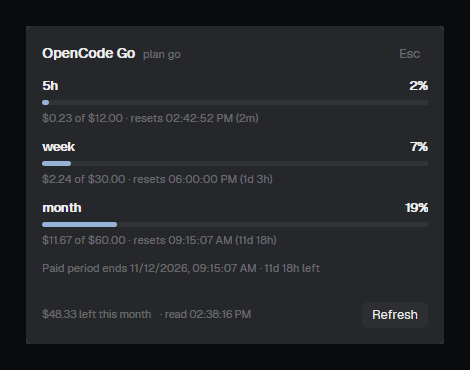
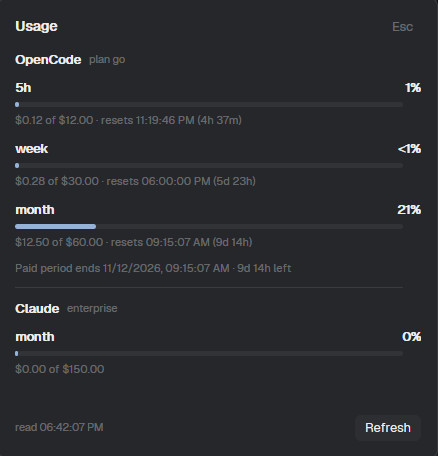
chore(release): 0.2.0
Claude joins the bar, the bar learns a compact 5h view, money is read in minor
units and the controls are visible. Adds CHANGELOG.md, refreshes both
screenshots from the new UI, and drops the account details from the ODD record.

diff --git a/CHANGELOG.md b/CHANGELOG.md
@@ -1,0 +1,68 @@
+# Changelog
+
+All notable changes to this mod are documented here. The format follows
+[Keep a Changelog](https://keepachangelog.com/en/1.1.0/) and the project uses
+[semantic versioning](https://semver.org/spec/v2.0.0.html).
+
+The two mod folders (`opencode-usage`, `opencode-usage-detail`) ship together and
+share one version.
+
+## [0.2.0] — 2026-11-03
+
+Claude joins the bar, and the bar learns to show less.
+
+### Added
+
+- **Claude as a second provider**, read from the Claude Code session on this
+  machine (`~/.claude/.credentials.json`) through the same usage endpoint the
+  `/usage` view uses. Percentages when the account has plan windows; dollars when
+  it bills by use.
+- **Compact and full views.** The bar opens compact (the five-hour window of each
+  provider) and a click on the numbers expands it to every window. The choice is
+  remembered across restarts.
+- **`opencode-usage.toggle`** command, the keyboard equivalent of that click.
+- **A money pool row** for usage-billed accounts: the monthly credit pool is read
+  in minor units (`amount_minor` + `exponent`) and drawn like a window, with
+  grouped thousands.
+- **Visible controls**: the detail and refresh buttons now sit to the left of the
+  numbers, have their own background and border, and carry tooltips.
+
+### Changed
+
+- The bar is no longer OpenCode-only: one shared snapshot feeds both providers, so
+  there is one read cycle and one dialog for both.
+- **Clicking the numbers now switches the view** instead of opening the dialog.
+  The dialog opens from the gauge button (or `opencode-usage.details`).
+- The detail dialog grew to 440×460 and shows one section per provider.
+- Money formatting: `$15,000.00` instead of `$15000.00`, with only the spent
+  amount in semibold.
+
+### Fixed
+
+- A usage-billed account reported its monthly limit in cents as if it were
+  dollars: `$150.00` showed as `$15,000.00`. The `spend` block now wins over
+  `extra_usage`, and both are scaled by the exponent the payload declares.
+- The detail and refresh buttons rendered as empty boxes with no error anywhere,
+  because the SVG path lost its `mods/` prefix in the rewrite.
+- A wide empty band between the buttons and the numbers, left by a spacer that
+  pushed the buttons to the right edge of the block.
+- The last line of the Claude section fell below the scroll fold at the old
+  420px height.
+- A Claude credential file with an empty token is reported as "not signed in"
+  with a next step, instead of as a transient read error.
+
+## [0.1.0] — 2026-10-31
+
+First release.
+
+### Added
+
+- OpenCode Go plan usage in Herdr's bottom bar: the rolling five-hour window, the
+  UTC week and the paid month, each with the percentage used and a countdown to
+  its reset.
+- A detail dialog with the dollars behind each percentage, the exact local reset
+  times and the paid period end.
+- `collect.py`, a dependency-free reader of the Console login opencode keeps in
+  its own database, with actionable errors for a missing login, an expired
+  session, no network and an unexpected response.
+- `opencode-usage.refresh` and `opencode-usage.details` commands.

diff --git a/odd/tasks/herdr-agent-usage.md b/odd/tasks/herdr-agent-usage.md
@@ -1,10 +1,10 @@
 ---
 titulo: Consumo de Claude en la barra de uso de herdr, con modo compacto de 5 h
 feature: herdr-agent-usage
-estatus: en_curso
+estatus: cerrada
 fecha_creacion: 2026-11-03
 actualizado: 2026-11-03
-siguiente: — (nada abierto; verificación pendiente solo si Ismael pide publicar)
+siguiente: — (cerrada; publicado como 0.2.0)
 modo: implementacion
 tags: [herdr, mods, uso, claude, opencode]
 ---
@@ -54,7 +54,7 @@ del repo no cambian en esta entrega.
       (instalada y fuente), lectura real de OpenCode, captura de la barra en compacto y en
       completo, y del diálogo con las dos secciones. Spec: S1-S7. Ruta: inline. Commit: `—`.
 - [x] **T8** — Confirmar los números reales de Claude. Hecho: la cuenta de la empresa
-      (`ismael.rodriguezr@rappi.com`, `enterprise`) reporta el bloque `spend`; el dato ya sale en la
+      (cuenta corporativa, plan `enterprise`) reporta el bloque `spend`; el dato ya sale en la
       barra. Spec: S3, S5, S7. Ruta: inline. Commit: `—`.
 - [x] **T9** — Corregir el escalado del dinero (`spend` en unidades menores, `extra_usage` con
       `decimal_places`) y la tipografía de los montos. Spec: S3, S5. Ruta: inline. Commit: `—`.
@@ -96,7 +96,7 @@ del repo no cambian en esta entrega.
   ese numero, en este caso 150 dolares y ahi se ven como 15000, hay que mejorar la tipografia e
   igual acomodar o ajustar que salga el cuadro con detalle que antes teniamos, YA NO SALE,
   Sumado a eso corrigue el boton de update, no se ve".
-  Evidencia: la cuenta es `ismael.rodriguezr@rappi.com`, plan `enterprise`, y el payload no trae
+  Evidencia: la cuenta es corporativa (`enterprise`) y el payload no trae
   ventanas (`five_hour`/`seven_day` nulos, `limits: []`), solo
   `spend: {used: {amount_minor: 0, exponent: 2}, limit: {amount_minor: 15000, exponent: 2}}`,
   o sea **$150.00** de tope mensual de créditos. Causas: (1) el colector leía
@@ -111,3 +111,8 @@ del repo no cambian en esta entrega.
 - **L7** — "ajusta los botones de ver consumo y refres para que salgan antes de los datos y no
   despues. Ya que veo un espacio grande entre los botones y la informacion". La barra quedó con
   `[aguja] [refrescar] [datos …]`, sin espaciador entre botones y números.
+- **L8** — "ok, todo esto cargalo al repo publico, ya sabes que sin datos personales, este
+  vendria siendo una mejora o actualizacion asi que seria como otra version y eso. agrega el
+  archivo o no se como seria donde indica los cambios". Publicado como **0.2.0**: `CHANGELOG.md`
+  nuevo, capturas regeneradas a partir de la UI nueva, correo y nombre de la cuenta sustituidos por
+  "cuenta corporativa" en este documento, tag `v0.2.0` en `main`.

diff --git a/README.md b/README.md
@@ -7,6 +7,8 @@ dollars when the account bills by use). The bar opens in the compact view, one
 window per provider; clicking the numbers switches to every window, and clicking
 the gauge opens a dialog with the details behind each number.
 
+**Version 0.2.0** · every change is listed in [CHANGELOG.md](CHANGELOG.md).
+
 ![The bar showing OpenCode Go and Claude in compact mode](preview.png)
 
 Nothing here is estimated: the OpenCode numbers are the plan's own meters, and
